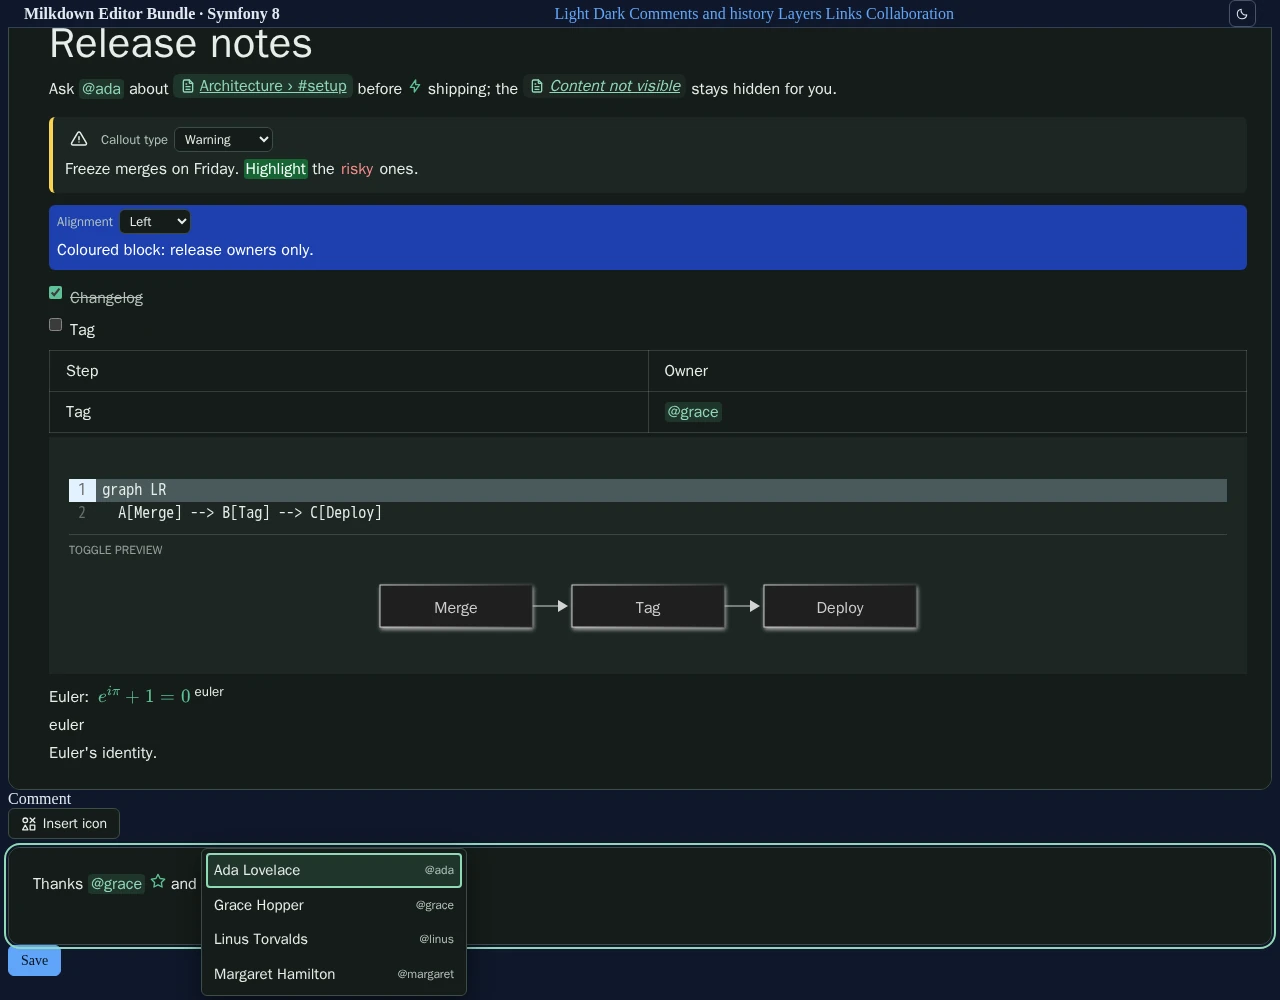
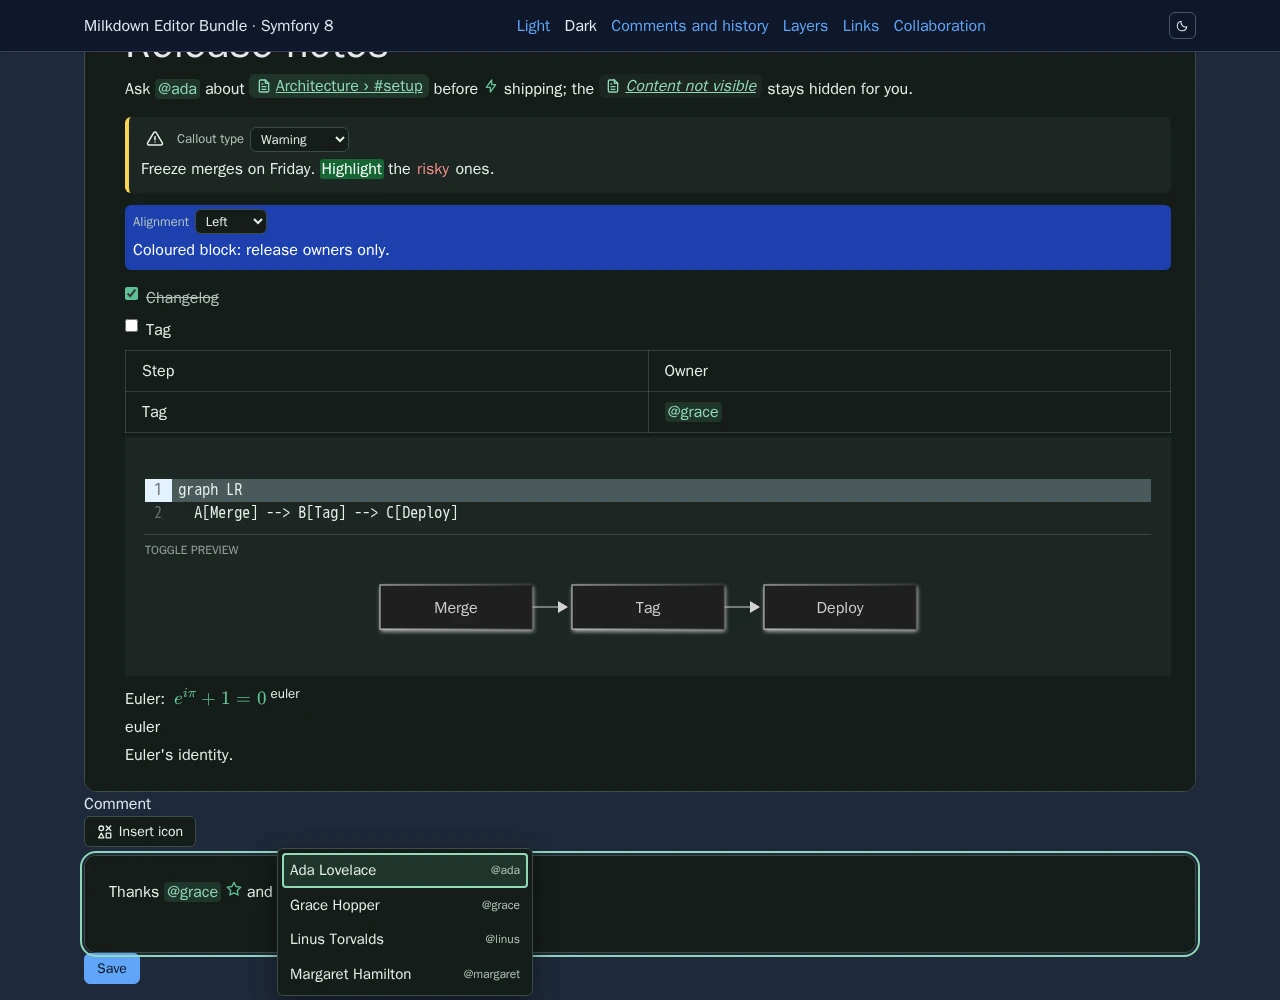
docs(demo): drop demo.css for UiKit's base theme and style the diff buttons (#53)

diff --git a/demo/symfony8/public/demo-layers.css b/demo/symfony8/public/demo-layers.css
@@ -1,0 +1,28 @@
+/*
+ * Layers fixture page (1.8, ME-1, REQ-DEMO-014): needs a sticky header with z-index 100, an ancestor with transform and a
+ * transformed modal dialog to prove the editor menus render in the top layer. UiKit has no component for these layouts;
+ * colours come from UiKit tokens (none is overridden). Loaded by the layers page only. The page canvas and the Dark view
+ * come from UiKit's base_stylesheet.
+ */
+.demo-sticky {
+  position: sticky;
+  top: 0;
+  z-index: 100;
+  padding: 0.75rem 1rem;
+  background: var(--nowo-ui-primary);
+  color: var(--nowo-ui-primary-contrast);
+  font-weight: 600;
+}
+.demo-transformed {
+  transform: translateZ(0);
+  contain: paint;
+  overflow: hidden;
+  padding: 0.5rem;
+  border: 1px dashed var(--nowo-ui-border);
+}
+.demo-under-sticky {
+  margin-bottom: 70vh;
+}
+.demo-dialog {
+  transform: translateZ(0);
+}

diff --git a/src/Resources/public/chunks/diff-nav-H3DoJKtV.js b/src/Resources/public/chunks/diff-nav-H3DoJKtV.js
@@ -24,7 +24,7 @@ function t(t) {
 		"Next change"
 	]]) {
 		let a = document.createElement("button");
-		a.type = "button", a.className = `nowo-md-diff-${e}`, a.textContent = r(e, n), a.addEventListener("click", () => s(t)), i.append(a);
+		a.type = "button", a.className = `nowo-md-diff-${e} nowo-ui-btn nowo-ui-btn--sm`, a.textContent = r(e, n), a.addEventListener("click", () => s(t)), i.append(a);
 	}
 	return i.append(a), t.querySelector(".nowo-md-diff-summary")?.after(i), t.addEventListener("keydown", (e) => {
 		e.ctrlKey || e.metaKey || e.altKey || e.target.closest("input, textarea, select, [contenteditable=\"true\"]") || (e.key === "n" || e.key === "p") && (e.preventDefault(), s(e.key === "n" ? 1 : -1));

diff --git a/src/Resources/assets/src/diff-nav.ts b/src/Resources/assets/src/diff-nav.ts
@@ -34,7 +34,7 @@ export function bindDiff(wrapper: HTMLElement): boolean {
   for (const [name, step, fallback] of [['previous', -1, 'Previous change'], ['next', 1, 'Next change']] as const) {
     const button = document.createElement('button');
     button.type = 'button';
-    button.className = `nowo-md-diff-${name}`;
+    button.className = `nowo-md-diff-${name} nowo-ui-btn nowo-ui-btn--sm`;
     button.textContent = label(name, fallback);
     button.addEventListener('click', () => go(step));
     nav.append(button);

diff --git a/src/Resources/public/milkdown-editor.js b/src/Resources/public/milkdown-editor.js
@@ -5900,7 +5900,7 @@ function Td(e = document) {
 	}));
 }
 function Ed(e = document) {
-	return e.querySelector("[data-nowo-milkdown-diff]") ? import("./chunks/diff-nav-i1j12ysT.js").then((t) => t.bindDiffs(e)) : Promise.resolve(0);
+	return e.querySelector("[data-nowo-milkdown-diff]") ? import("./chunks/diff-nav-H3DoJKtV.js").then((t) => t.bindDiffs(e)) : Promise.resolve(0);
 }
 function Dd(e = document) {
 	let t = () => {

diff --git a/docs/CHANGELOG.md b/docs/CHANGELOG.md
@@ -38,6 +38,8 @@ All notable changes to this project are documented in this file. The format foll
 
 ### Changed
 
+- The diff view's *Previous change* / *Next change* buttons carry UiKit's `nowo-ui-btn nowo-ui-btn--sm` classes next to their own `nowo-md-diff-previous` / `nowo-md-diff-next`, so they have a button style and enough contrast under UiKit's base theme (without UiKit the classes do nothing). Built assets refreshed.
+- Demo: UiKit's `base_stylesheet` (ui-kit-bundle ^2.59) paints the page canvas and the Dark view, so `demo.css` is gone; the layers fixture CSS (sticky header z-index 100, transformed ancestor, which UiKit has no component for) moved to `demo-layers.css` and loads on the layers page only.
 - Demo: aligned with UiKit. `demo-preview` / `demo-source` are `data-testid`s instead of classes (e2e selectors updated), `demo-nav-*` test ids and the `· Symfony 8` brand and title suffix on the masthead.
 
 ## [1.18.1] - 2026-11-18
